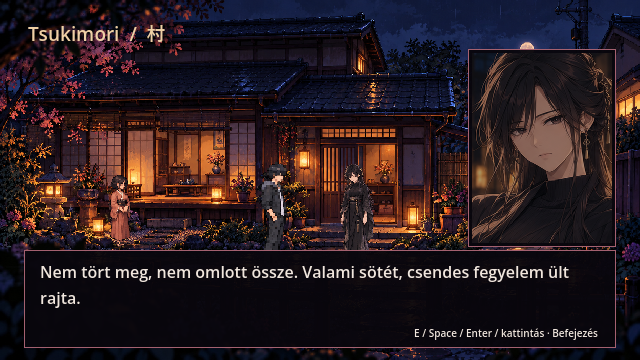
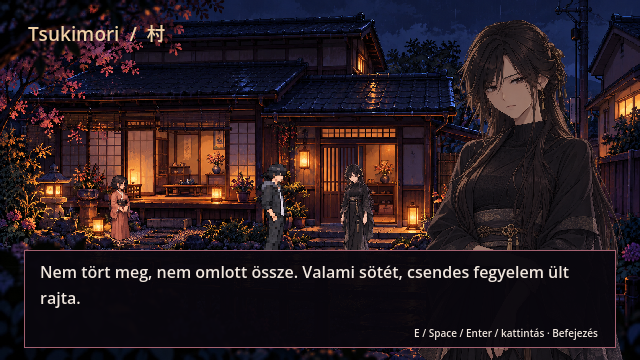
Replace framed VN portrait with transparent Miyako cutout

Changed region(s): [[0.6562, 0.0611, 0.9688, 0.7028], [0.6562, 0.9472, 0.8438, 1.0], [0.875, 0.9472, 0.9688, 1.0]]

diff --git a/docs/MIYAKO_VN_REVIEW.md b/docs/MIYAKO_VN_REVIEW.md
@@ -6,7 +6,7 @@ E / Space / Enter / bal kattintás: először a teljes mondat kiírása, majd to
 
 Szöveg: a helyben megtalált Tsukimori_RenPy_Prototype/game/Tsukimori/game/canonical_html_story.rpy canonical_html_chapter_1 külső találkozásából. A jóváhagyott „Dr. Akira. Már vártam.” után az eredeti narráció két oldalra bontva. Az adatok: data/opening/miyako_first_dialogue.json. Új kánon nem került be. A benti jelenet és választások nem kerültek előre a ház elé.
 
-Portré: az assets/opening/reference/MIYAKO_FINAL_DESIGN_A_PRIMARY.png (792,8,275,371) runtime AtlasTexture-kivágása. REVIEW / PLACEHOLDER, nem végleges pixel-art portré. Hiányzik a külön gyártott, átlátszó hátterű Miyako Design A VN-portré és az arckifejezés-készlet. A névtábla és bordó keretes szövegdoboz a TSUKIMORI_PIXEL_DIALOGUE_UI_V1 vizuális irányát követő technikai UI. A teljes képes referencialap nem válik production atlasszá.
+Portré: a felhasználó kérésére keret nélküli, átlátszó hátterű alak közvetlenül a világ előtt, a szövegdoboz mögött. Asset: assets/opening/vn_portraits/miyako_cutout_v1_REVIEW.png, beépített image_gen eszközzel a MIYAKO_FINAL_DESIGN_A_PRIMARY.png alapján készítve. REVIEW / PLACEHOLDER, nem végleges pixel-art portré; az arckifejezés-készlet és a végleges kézi pixel-art kidolgozás még hiányzik. A forrást és a teljes promptot a mellette lévő generation.md rögzíti. A névtábla és bordó keretes szövegdoboz a TSUKIMORI_PIXEL_DIALOGUE_UI_V1 vizuális irányát követő technikai UI. A karakter körül nincs panel vagy keret.
 
 Teszt: tests/ui/vn_dialogue_regression.tscn valódi billentyűkkel ellenőrzi az indítást, kiírást, oldalváltást, a mozgás zárolását, a portré méretét, szövegelhelyezést és a végállapotot. tests/opening/regression.tscn a természetes nyitástól a találkozásig is ellenőrzi az új működést, beleértve az időkorlát nélküli olvasást. Mindkettő sikeres. Képek: review/vn_miyako_0.png–vn_miyako_2.png.
 

diff --git a/assets/opening/vn_portraits/generation.md b/assets/opening/vn_portraits/generation.md
@@ -1,0 +1,10 @@
+# Miyako cutout v1 — REVIEW
+
+2026-10-03. Tool: built-in image_gen, transparent_background=true.
+Source: ../reference/MIYAKO_FINAL_DESIGN_A_PRIMARY.png.
+Output: miyako_cutout_v1_REVIEW.png. Original reference preserved. No FINAL approval implied.
+Purpose: owner requested frameless VN character integration. Alpha verified; rendered and checked in Godot. Final pixel-art cleanup and expression variants remain production work.
+
+## Exact prompt
+
+Use case: background-extraction / identity-preserve. Create one transparent-background VN character cutout of adult Miyako from this approved design board. Preserve her exact Primary Design A identity, long dark brown/black partially pinned hair, restrained melancholy expression, slender adult proportions, black high-neck mourning dress with layered charcoal kimono sleeves and subtle gold/burgundy trim. Use the large upper-center-right face portrait for face identity and top left FRONT figure for outfit. Single waist-up figure, both shoulders and top of hair entirely inside canvas, arms relaxed/folded naturally as the FRONT figure, slight three-quarter turn toward viewer's left. Maintain reference illustration rendering and colors. No redesign, no cleavage change, no new accessories. Real transparent alpha background, no scenery, no panel, no frame, no border, no text, no glow, no checkerboard painted in. This is an in-game REVIEW cutout to overlay at right above a dialogue box.

diff --git a/README.md b/README.md
@@ -14,7 +14,7 @@ WASD / nyilak: séta. E: figyelés, továbbhaladás a helyszín kijáratánál, 
 
 ## Aktuális állapot
 
-Miyako előtt E indítja az első VN-jelenetet. E / Space / Enter / bal kattintás kiírja az aktuális mondatot, majd továbblép. A beszélgetés megvárja az olvasót; az utolsó oldal lezárásakor visszatér a mozgás. A portré REVIEW referencia-kivágás. A benti beszélgetés még nincs beépítve.
+Miyako előtt E indítja az első VN-jelenetet. E / Space / Enter / bal kattintás kiírja az aktuális mondatot, majd továbblép. A beszélgetés megvárja az olvasót; az utolsó oldal lezárásakor visszatér a mozgás. A karakter keret nélküli, átlátszó hátterű REVIEW kép. A benti beszélgetés még nincs beépítve.
 
 REVIEW / PLACEHOLDER: négy női ambient NPC, mozgás, kamera, eső, járható úthatárok, előtér-takarás, kapunál állapotbiztos átadás, híd és Miyako köszöntése. Az oldalirányú járás nyolc képkockás, az előre/hátra ciklus négyképkockás. Ez nem a teljes 10–15 perces történeti flow.
 
